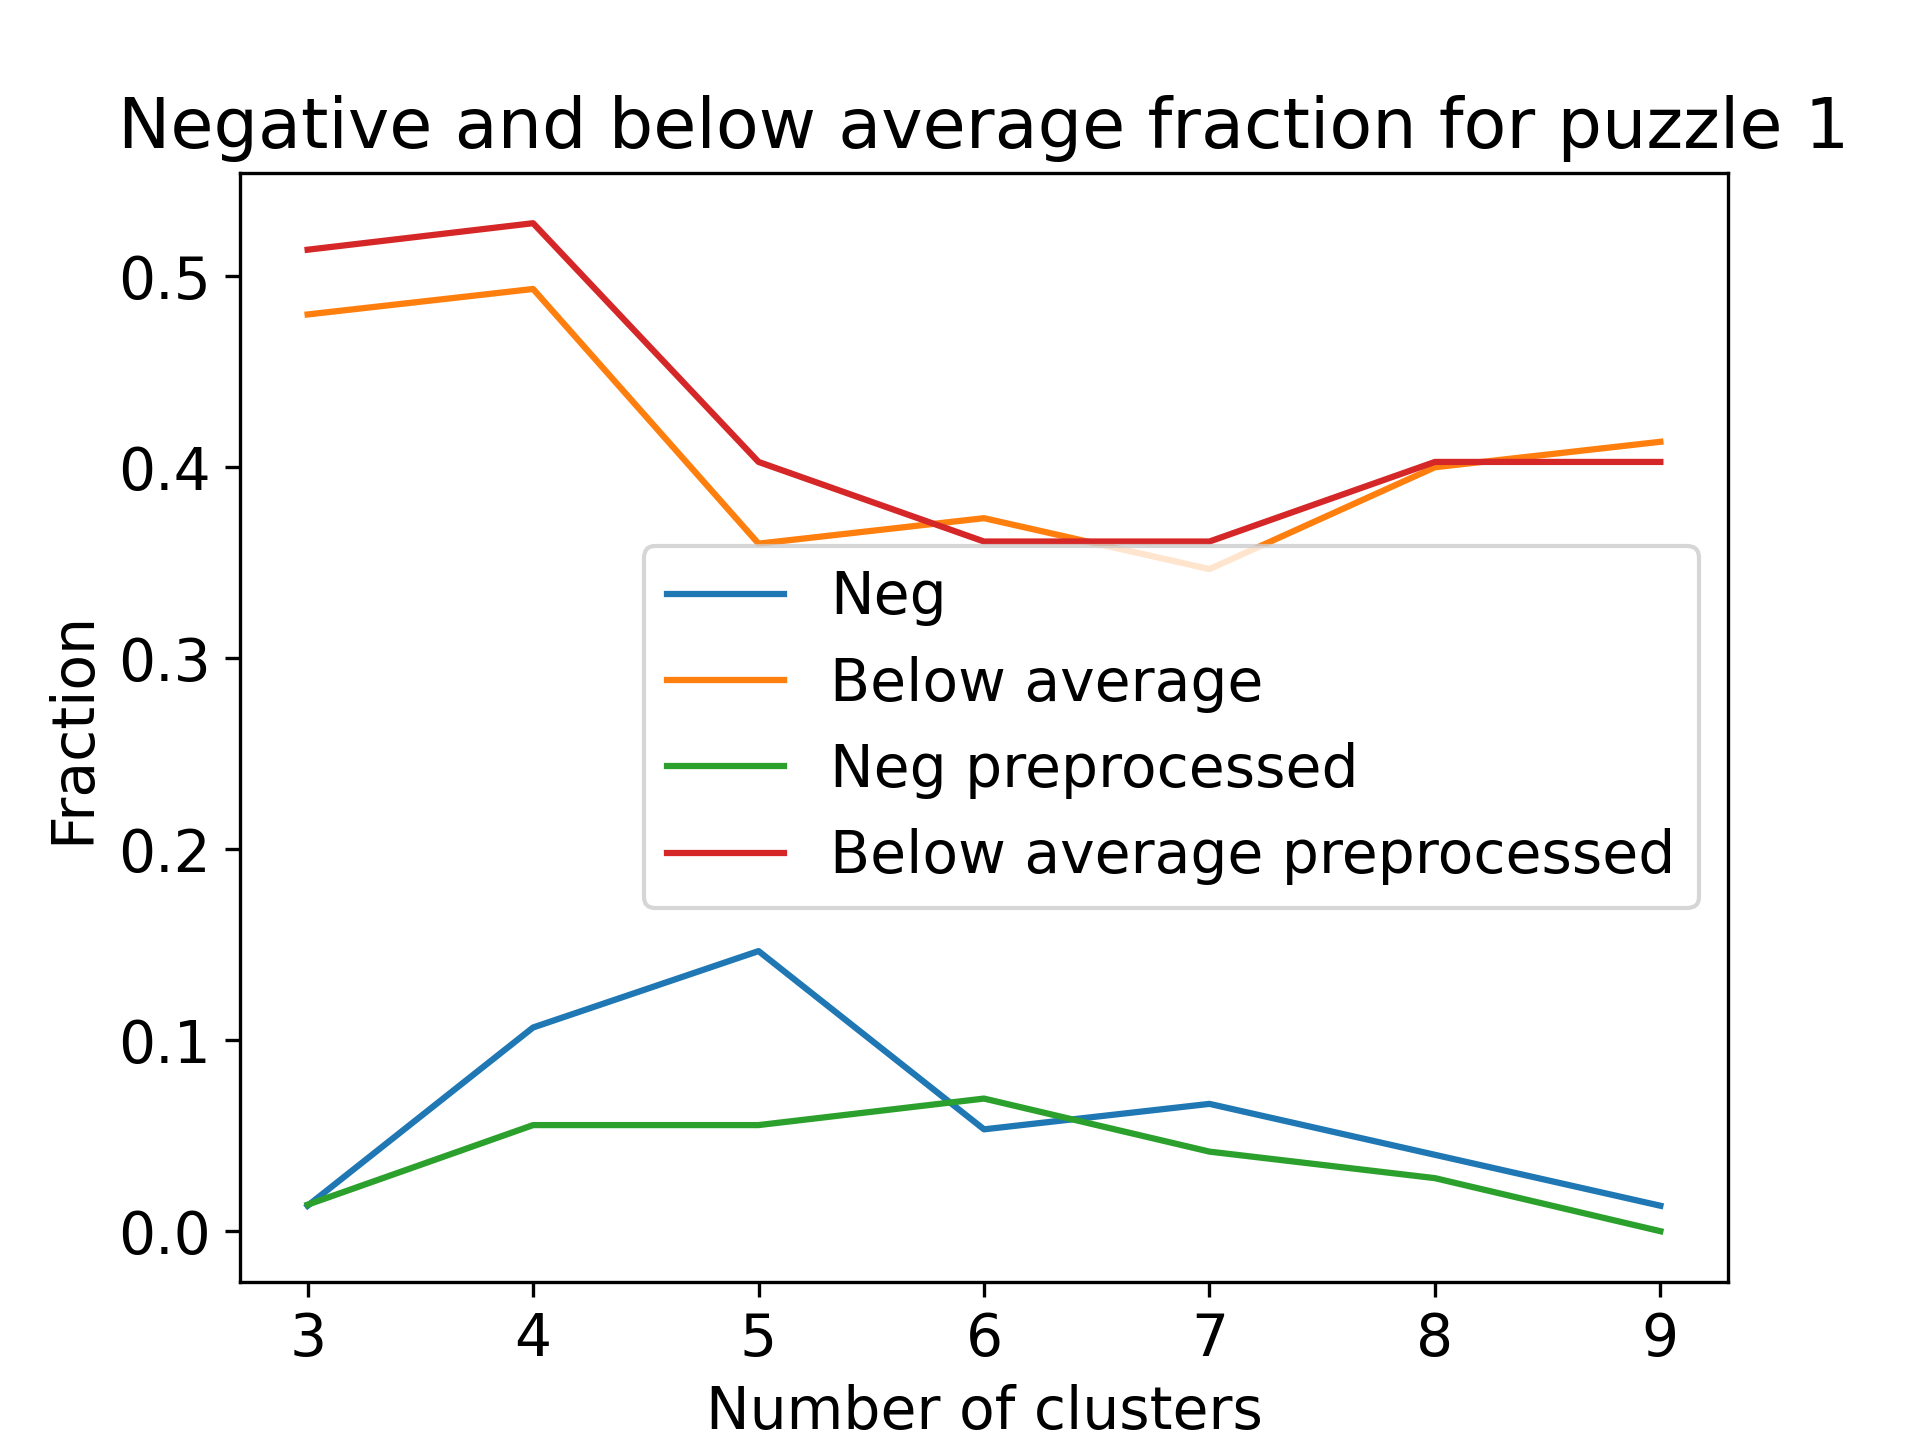
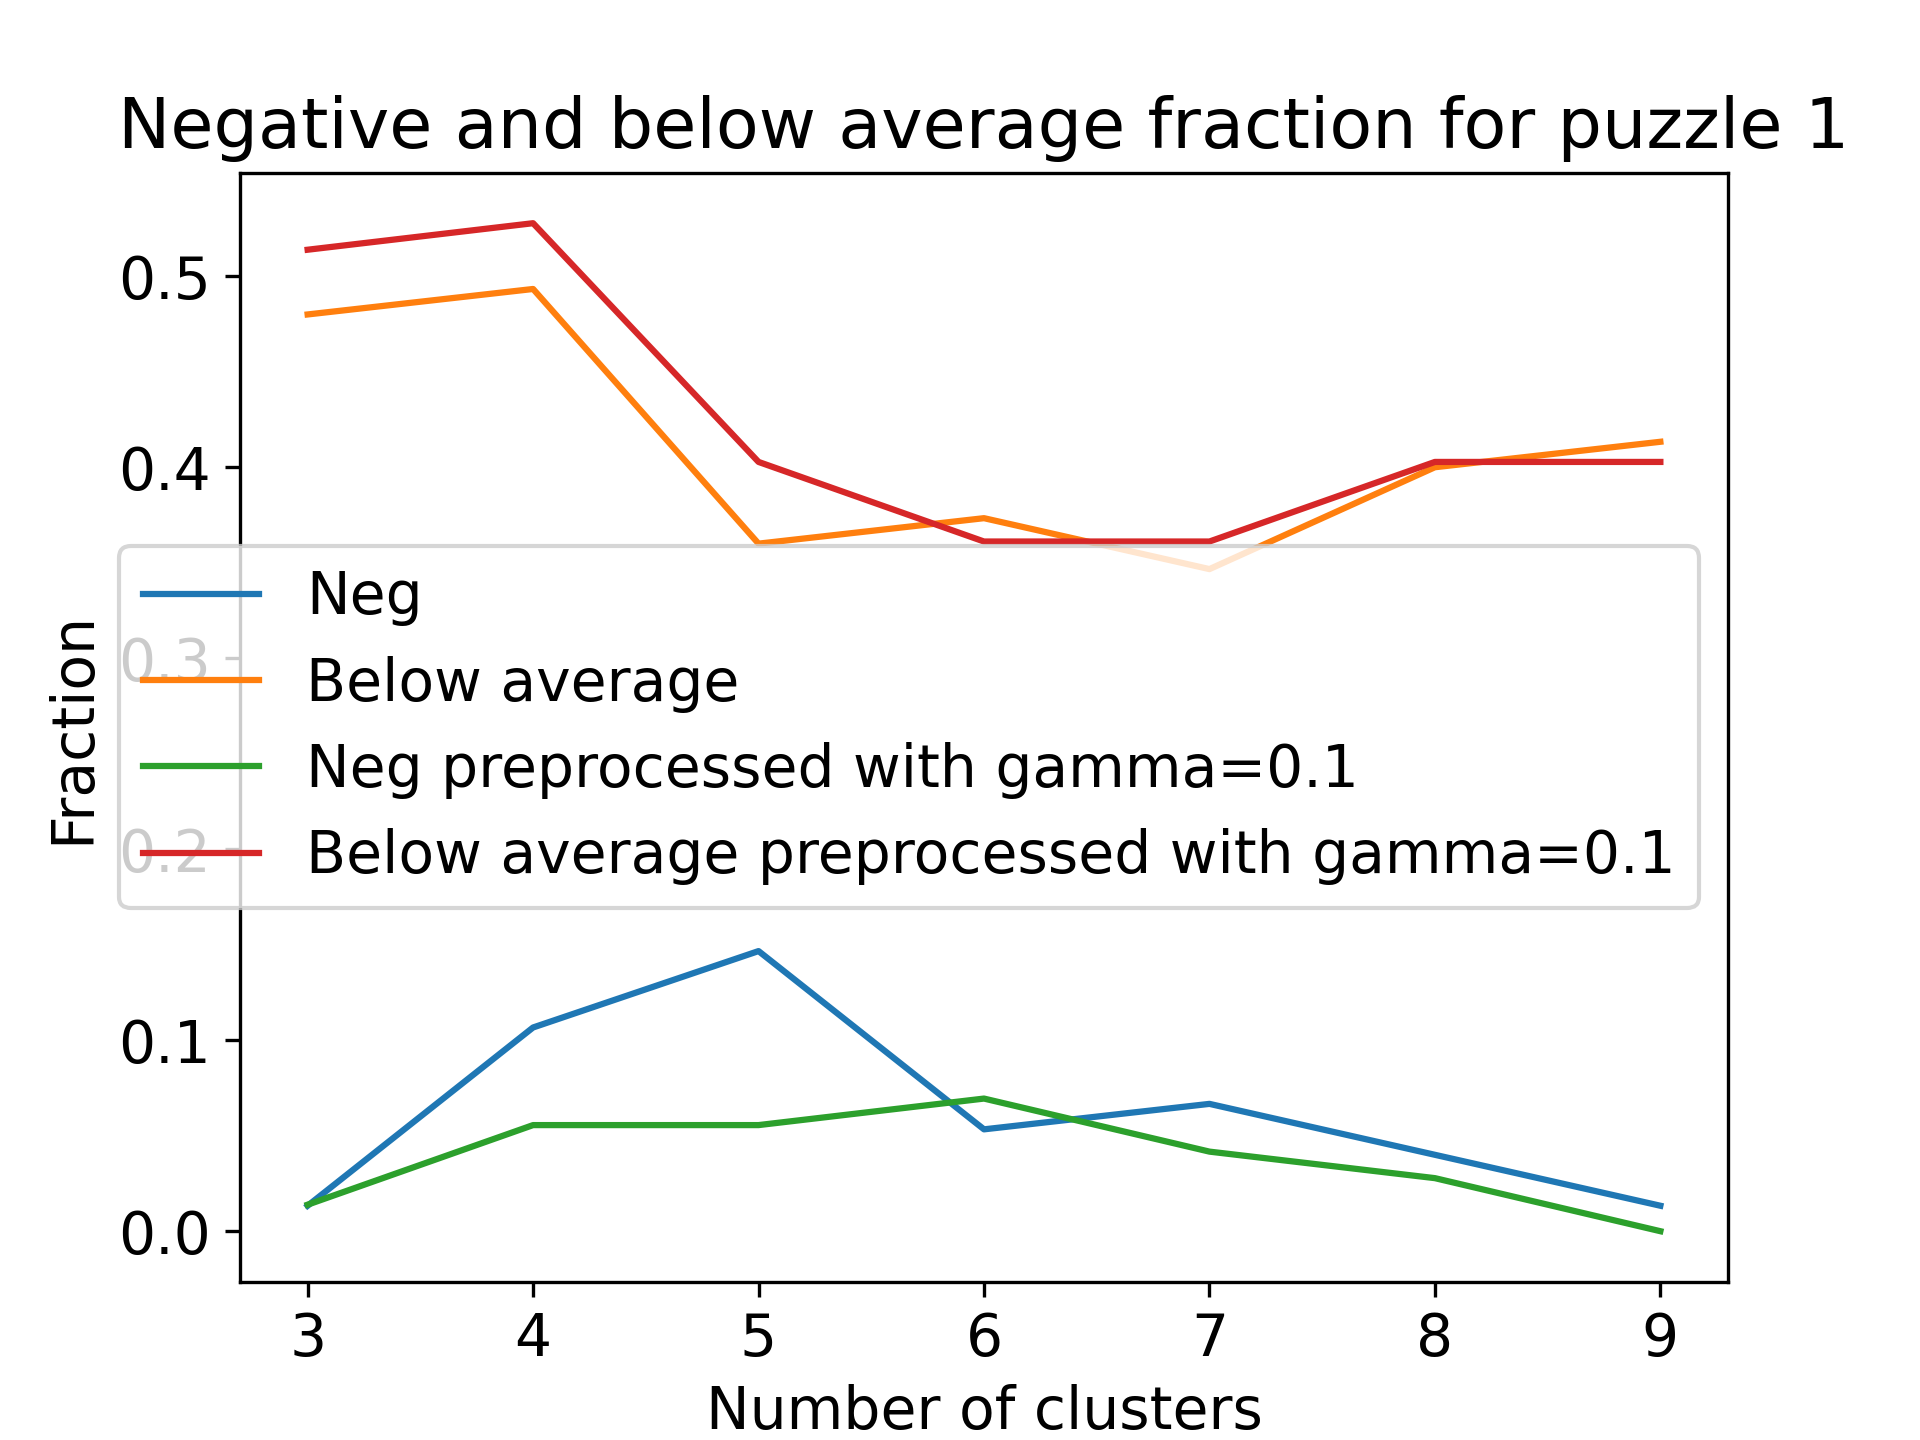
effect of preprocessing on clustering results

diff --git a/SRC/clusterPositionalVector.py b/SRC/clusterPositionalVector.py
@@ -715,7 +715,7 @@ def do_cluster(**kwargs):
             print(f"Ignore ego visualization: {ignore_ego_visualization}", file=f)
     return neg_value_fraction, below_avg_fraction
             
-for puzzle in [26]:
+for puzzle in [1]:
     neg_value_fraction, below_avg_fraction = do_cluster(puzzles=[puzzle], 
                                                     preprocessing=False,
                                                       softdtwscore=True,
@@ -730,15 +730,15 @@ for puzzle in [26]:
                                                       softdtwscore=True,
                                                         ignore_Unattached_ego=False, 
                                                         log_scale=True, torch=False,
-                                                          torch_be=False, gamma=1.,
+                                                          torch_be=False, gamma=0.1,
                                                             manual_number_of_clusters=False, 
                                                             ignore_ego_visualization=True)
 
     plt.figure()
     plt.plot(range(3, 10), neg_value_fraction, label='Neg' )
     plt.plot(range(3, 10), below_avg_fraction, label='Below average ')
-    plt.plot(range(3, 10), neg_value_fractionP, label='Neg preprocessed')
-    plt.plot(range(3, 10), below_avg_fractionP, label='Below average preprocessed')
+    plt.plot(range(3, 10), neg_value_fractionP, label='Neg preprocessed with gamma=0.1')
+    plt.plot(range(3, 10), below_avg_fractionP, label='Below average preprocessed with gamma=0.1')
     plt.xlabel('Number of clusters')
     plt.ylabel('Fraction')
     plt.legend()
